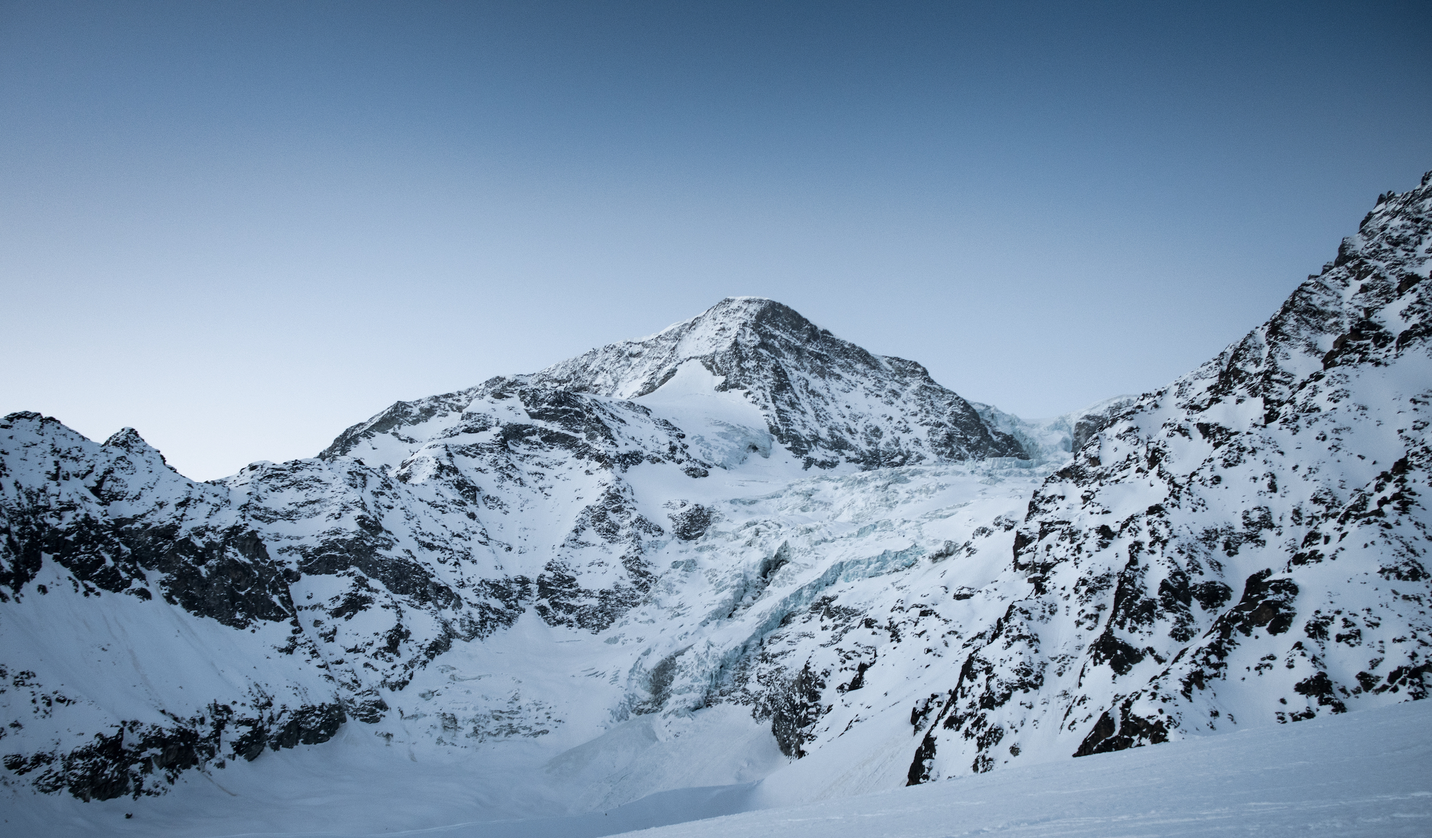
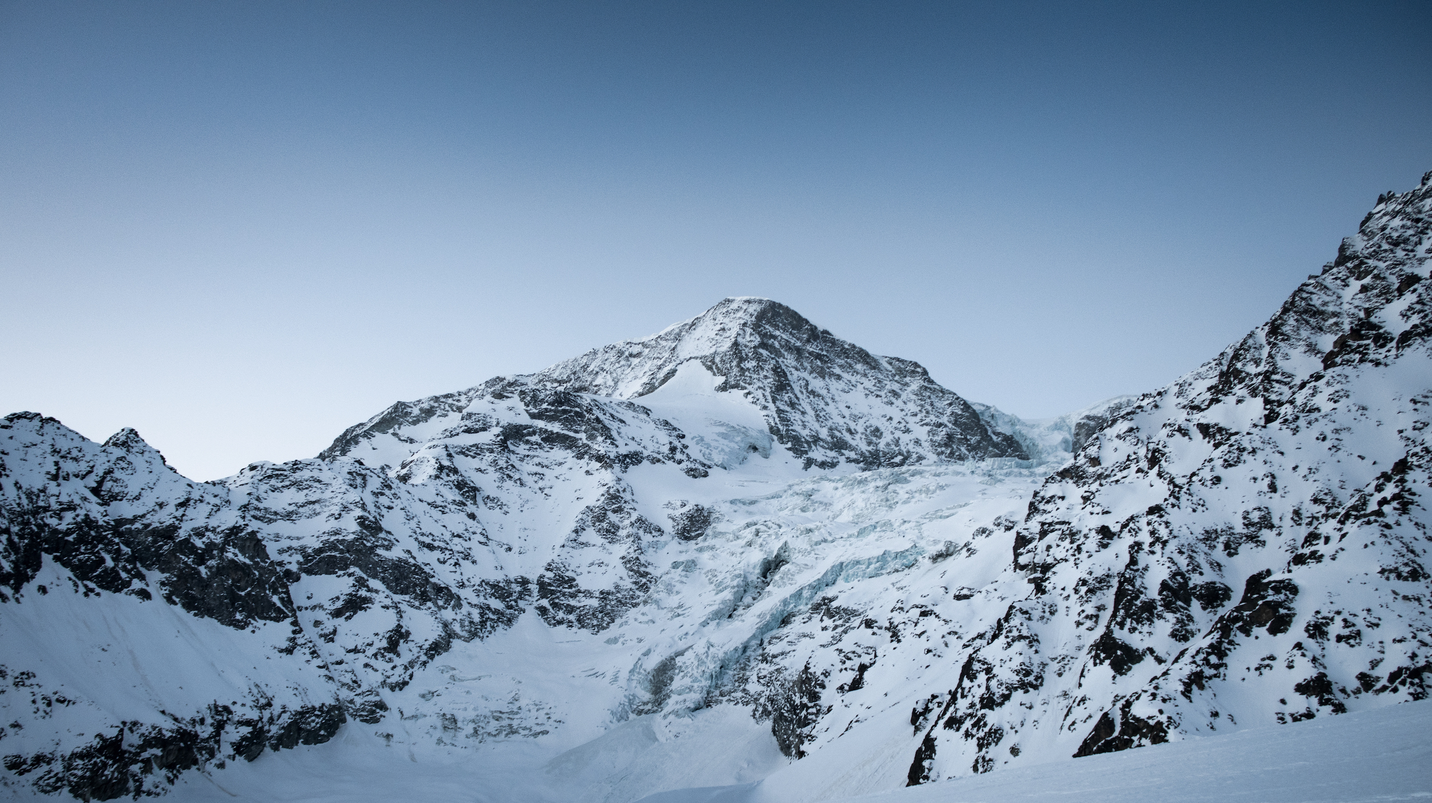
update

Changed region(s): [[0.0, 0.184, 1.0, 1.0], [0.9672, 0.9815, 1.0, 1.0]]

diff --git a/outdoors.html b/outdoors.html
@@ -56,22 +56,20 @@
 <section id="main" class="wrapper style1">
 		<div class="container">
 
-		<!--	<div id="photo_gallery">
-				<header>
-					<h2>Ski Touring Topos<br class="mobile-hide" /></h2>
-					<p>Ski touring has been one my dearest passion for 2-3 years.
-						Underneath, you'll find a map with detailed reviews (in French) of most of the tours I have had the opportunity to undertake with my dear teammates, during the winter seasons 2020-2022.
-						Most of the tours are located in Valais, but sometimes we dare exploring other neighbouring regions...
-						Feel free to explore them!
-					</p>
-				</header>
-			</div> -->
-
 				<!-- MAP -->
 				<div id = "map_wrapper">
 
 					<div id = "map_text">
-						<p>Opposite, you'll find an overview of my winter ski tours and my summer sport activities (bike and hiking). Discover more by clicking on the map!</p>
+						<p>
+							I spend most of my free time practicing <b>outdoors activites</b>, whether ski(-touring) in winter, or cycling/hiking/running in summer.
+							On this page, you'll find an overview of my outdoors activities.
+						</p>
+						<p>
+							Click on the <b>map</b> to discover some sample ski or bike tours.
+						</p>
+						<p>
+							Or discover my personal <b>ski-touring topo</b>, describing most of the tours I have done in the recent years (in French) as .pdf.
+						</p>
 					</div>
 
 					<div id="map_container">

diff --git a/map/src/js/script_map.js b/map/src/js/script_map.js
@@ -169,4 +169,4 @@ mymap.on('click', onMapClick);
 //---------------------------------------------------------------------------------------------------------------------------------
 
 /* RETURN the map : intial view*/
-mymap.setView(L.latLng(46.20094, 7.53214), 9);
+mymap.setView(L.latLng(46.20094, 7.53214), 8);

diff --git a/assets/css/0_main.css b/assets/css/0_main.css
@@ -1172,7 +1172,7 @@ button.style1:active,
 	justify-content: center;
 	position: relative;
 
-	height: 32em;
+	height: 26em;
 	background: url("../../images/banner_0.jpg") center;
 	background-size: cover;
 	padding: 0;

diff --git a/assets/css/4_style_map.css b/assets/css/4_style_map.css
@@ -84,7 +84,7 @@
   #map_text {
       float:left;
       width: 50%;
-      padding-right: 30px;
+      padding-right: 50px;
   }
   #map_container {
     overflow: hidden;
